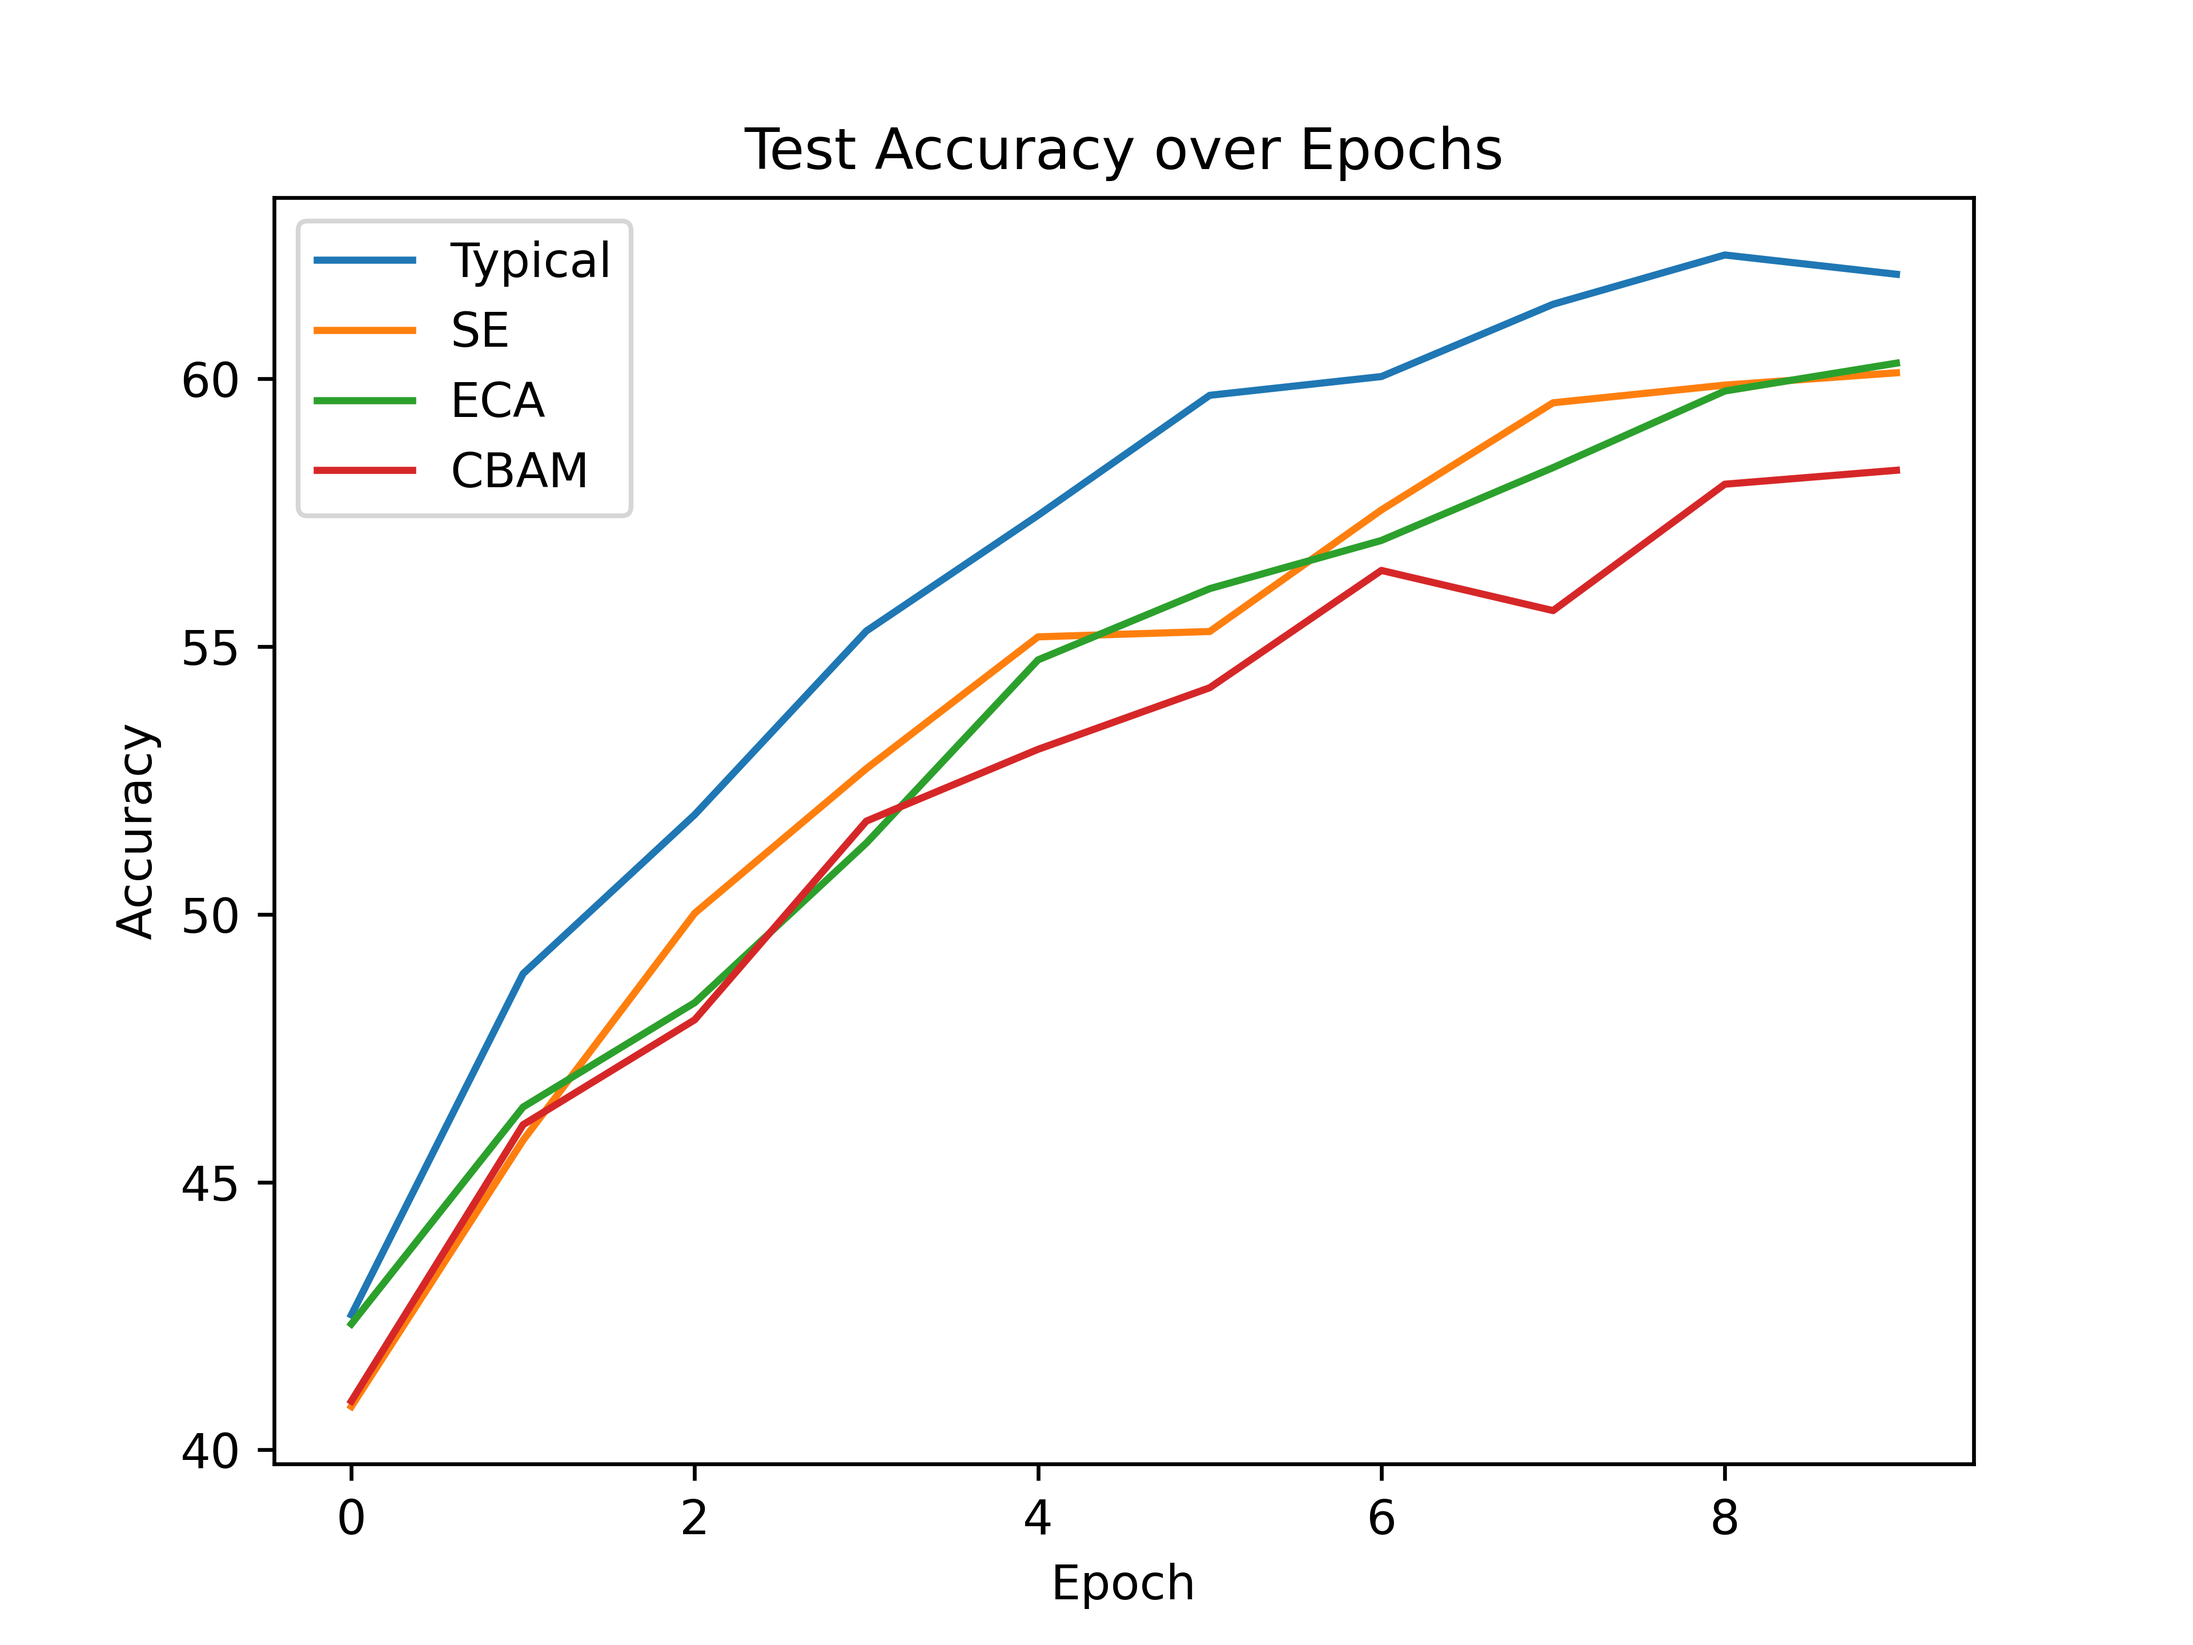
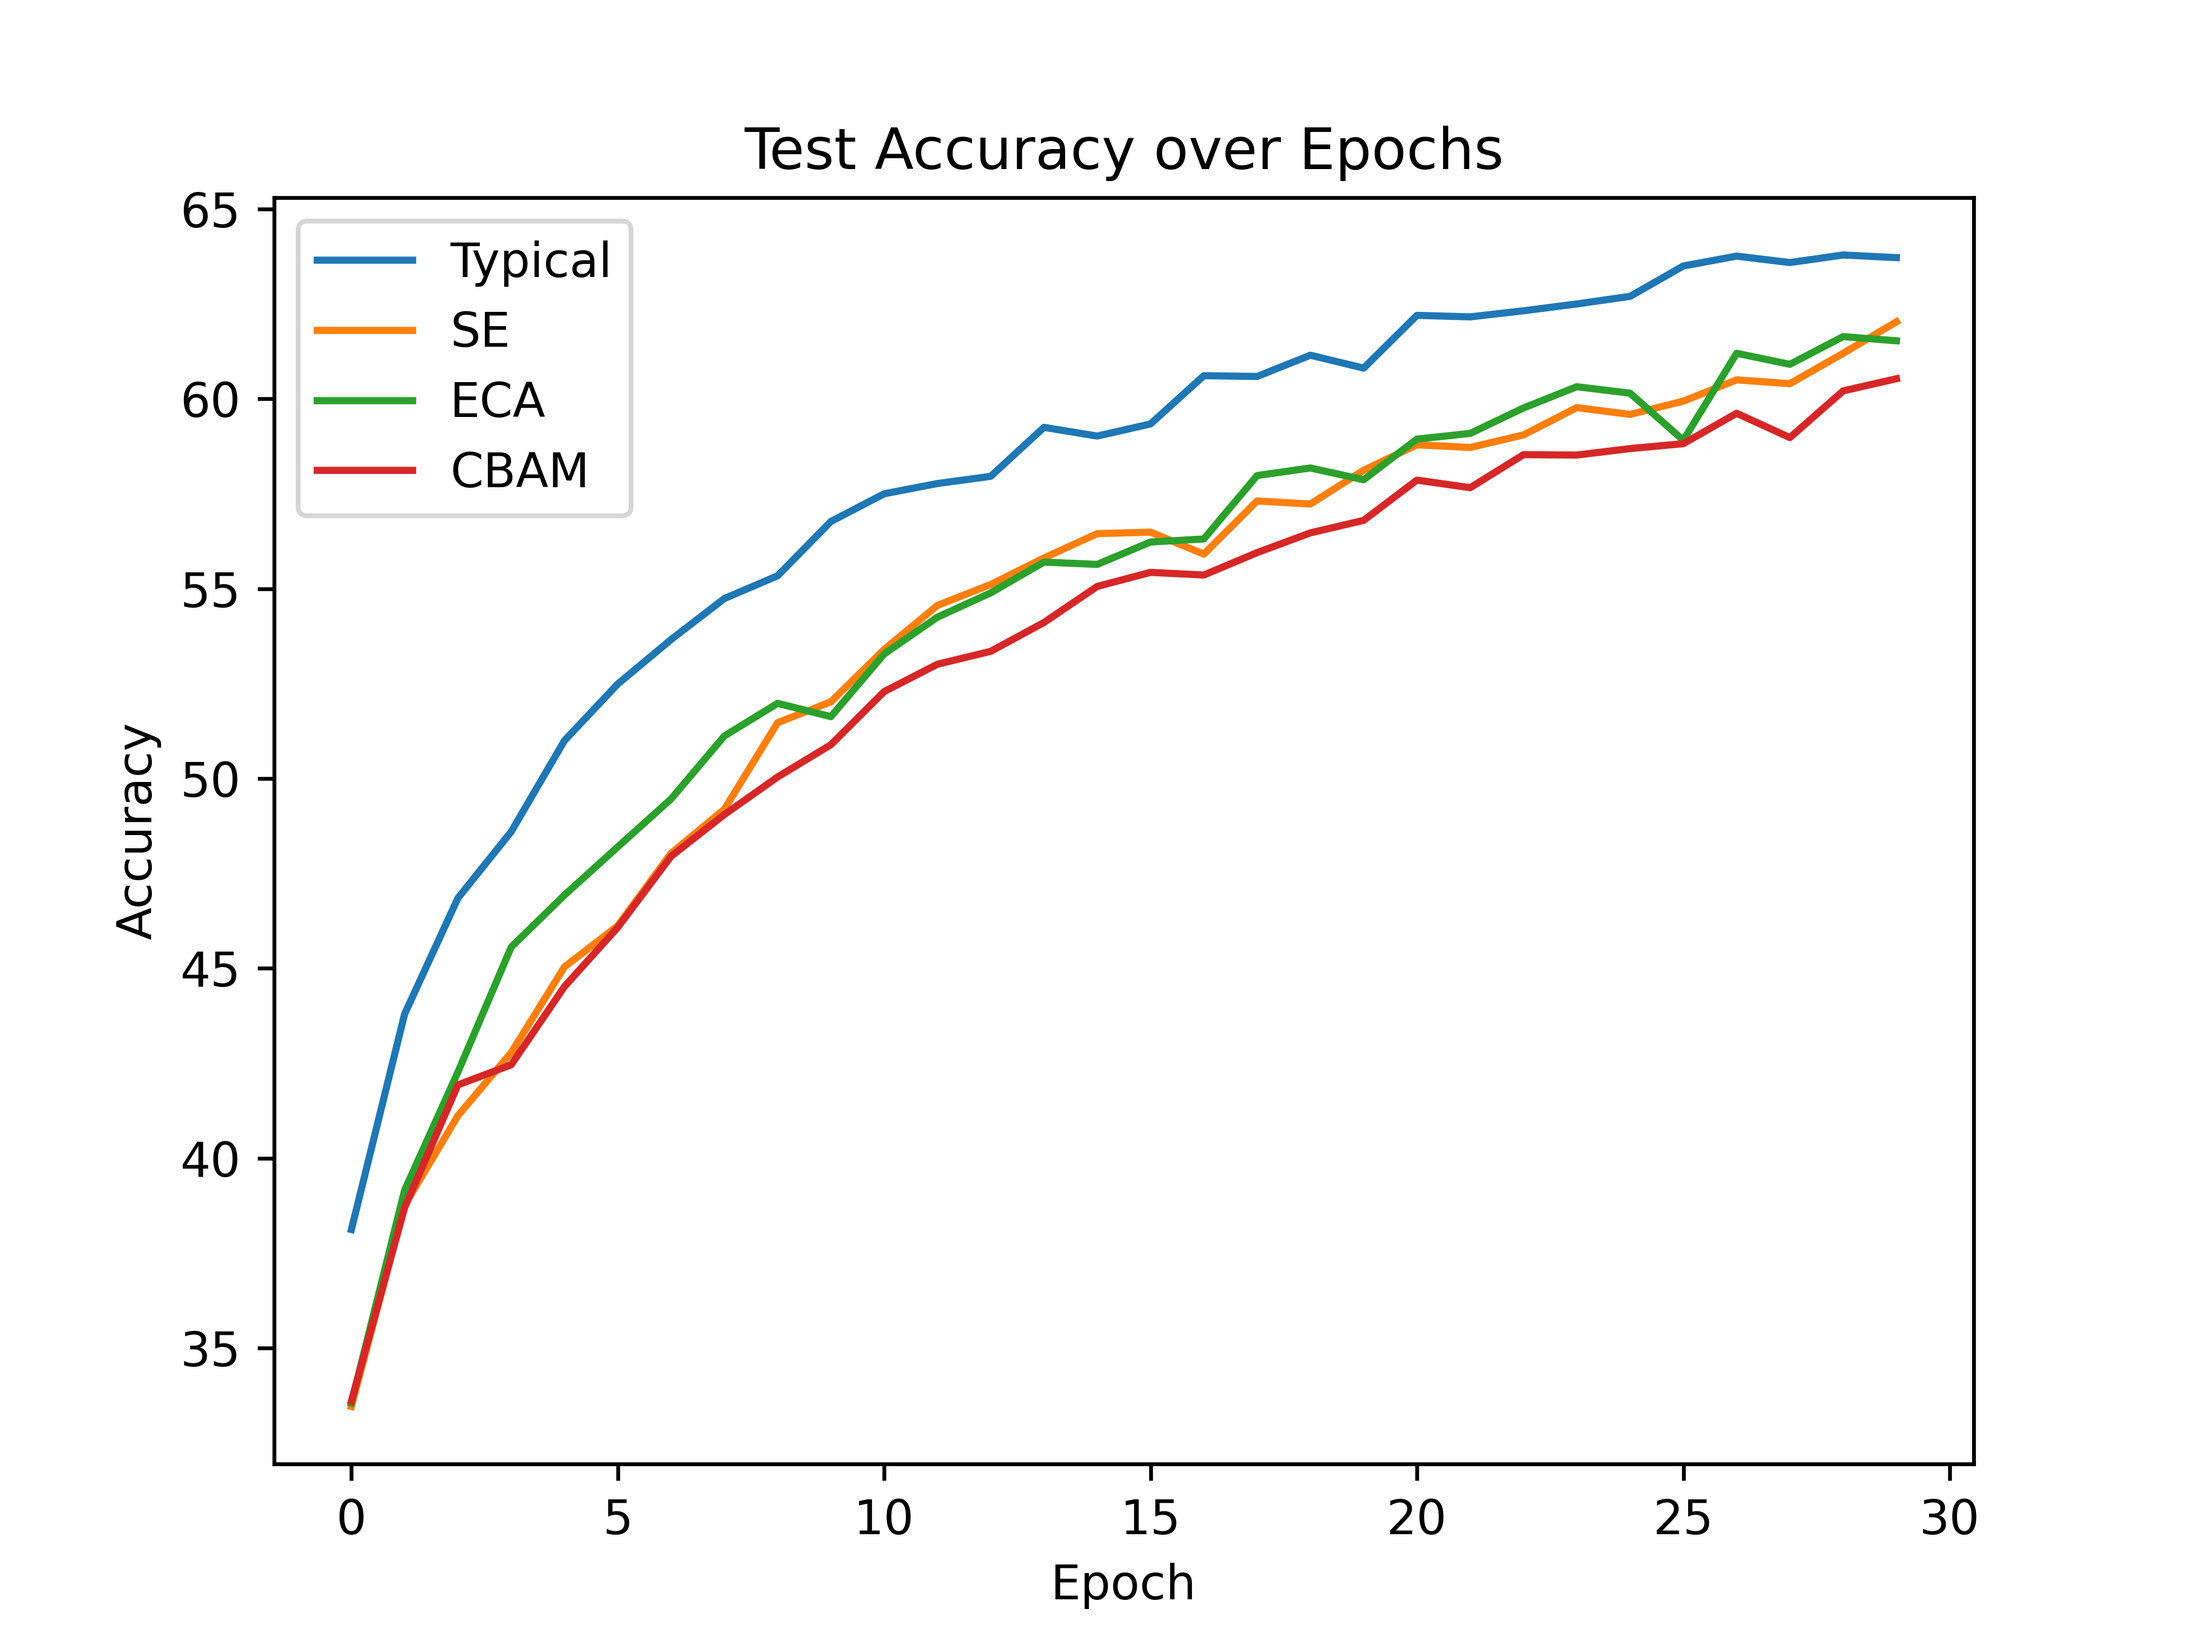
chhange to cuda

diff --git a/train.py b/train.py
@@ -4,14 +4,13 @@ import torch.nn.functional as F
 import torch.optim as optim
 from torchvision import datasets, transforms
 import ConvNet
-import ResNet
 
 args = {
-    'model': 'lenet5',        # lenet5, resnet18
-    'dataset': 'mnist',         # MNIST, CIFAR10
-    'batch_size': 64,           # 64, 128
-    'optimizer': 'adam',        # adam, sgd, adadelta
-    'activation': 'relu',       # relu, gelu, elu, tanh
+    'model': 'lenet5',          # lenet5
+    'dataset': 'cifar10',       # CIFAR10, CIFAR100
+    'batch_size': 512,          # 64, 128, 256, 512
+    'optimizer': 'adam',        # adam, sgd, adadelta, rmsprop
+    'activation': 'relu',       # relu, gelu, sigmoid, tanh
     'normalization': 'none',    # none, bn, ln, gn
     'attention': 'none',        # none, se, eca, cbam
     'dropout': False,           # True, False
@@ -20,52 +19,21 @@ args = {
     'kernel_num1': 6,           # 6, 12, 24
     'kernel_num2': 16           # 16, 32, 64
 }
-total_epoch = 5
+total_epoch = 30
 
 device = torch.device("cuda" if torch.cuda.is_available() else "cpu")
+print("Runing on", torch.cuda.get_device_name(0) if torch.cuda.is_available() else "CPU")
 
 loss_log = []
 acc_log = []
 
 # Data preprocessing
 def data_preprocessing():
-    if args['dataset'] == 'mnist':
-        if args['model'] == 'lenet5':
-            transform = transforms.Compose([
-                transforms.Resize(32),
-                transforms.ToTensor(),
-                transforms.Normalize((0.1307,), (0.3081,))
-            ])
-        elif args['model'] == 'resnet18':
-            transform = transforms.Compose([
-                transforms.Resize(224), 
-                transforms.Grayscale(num_output_channels=3),
-                transforms.ToTensor(),
-                transforms.Normalize(mean=[0.1307, 0.1307, 0.1307], std=[0.3081, 0.3081, 0.3081]), 
-            ])
-
-
-        train_loader = torch.utils.data.DataLoader(
-                datasets.MNIST('data', train=True, download=True, transform=transform),
-                batch_size=args['batch_size'], shuffle=True)
-
-
-        test_loader = torch.utils.data.DataLoader(
-                datasets.MNIST('data', train=False, transform=transform),
-                batch_size=args['batch_size'], shuffle=True)
-    elif args['dataset'] == 'cifar10':
+    if args['dataset'] == 'cifar10':
         if args['model'] == 'lenet5':   
             transform = transforms.Compose([
                 transforms.RandomHorizontalFlip(),
                 transforms.ToTensor(), 
-                transforms.Normalize(mean=[0.4914, 0.4822, 0.4465], std=[0.2023, 0.1994, 0.2010]),
-                transforms.Grayscale(num_output_channels=1),
-            ])
-        elif args['model'] == 'resnet18':
-            transform = transforms.Compose([
-                transforms.Resize(224),
-                transforms.RandomHorizontalFlip(),
-                transforms.ToTensor(),
                 transforms.Normalize(mean=[0.4914, 0.4822, 0.4465], std=[0.2023, 0.1994, 0.2010]),
             ])
 
@@ -76,6 +44,24 @@ def data_preprocessing():
 
         test_loader = torch.utils.data.DataLoader(
             datasets.CIFAR10('data', train=False, transform=transform),
+            batch_size=args['batch_size'], shuffle=True
+        )
+    
+    elif args['dataset'] == 'cifar100':
+        if args['model'] == 'lenet5':   
+            transform = transforms.Compose([
+                transforms.RandomHorizontalFlip(),
+                transforms.ToTensor(), 
+                transforms.Normalize(mean=[0.5071, 0.4867, 0.4408], std=[0.2675, 0.2565, 0.2761]),
+            ])
+
+        train_loader = torch.utils.data.DataLoader(
+            datasets.CIFAR100('data', train=True, download=True, transform=transform),
+            batch_size=args['batch_size'], shuffle=True
+        )
+
+        test_loader = torch.utils.data.DataLoader(
+            datasets.CIFAR100('data', train=False, transform=transform),
             batch_size=args['batch_size'], shuffle=True
         )
 
@@ -91,7 +77,7 @@ def train(model, train_loader, opt, epoch):
         loss.backward()
         opt.step()
         loss_log.append(loss.item())
-        if batch_idx % 100 == 0 and batch_idx != 0:
+        if batch_idx % 50 == 0:
             print(f'Train Epoch: {epoch} [{batch_idx * len(data)}/{len(train_loader.dataset)} '
                     f'({100. * batch_idx / len(train_loader):.0f}%)]\tLoss: {loss.item():.6f}')
 
@@ -120,22 +106,22 @@ def main():
         model = ConvNet.model(activation=args['activation'], normalization=args['normalization'], 
                               attention=args['attention'], dropout=args['dropout'], 
                               add_conv=args['add_conv'], kernel_size=args['kernel_size'], 
-                              kernel_num1=args['kernel_num1'], kernel_num2=args['kernel_num2'])
-    elif args['model'] == 'resnet18':
-        model = ResNet.model()
+                              kernel_num1=args['kernel_num1'], kernel_num2=args['kernel_num2']).to(device)
     
     if args['optimizer'] == 'adam':
         opt = optim.Adam(model.parameters())
     elif args['optimizer'] == 'sgd':
-        opt = optim.SGD(model.parameters(), lr=0.01, momentum=0.9)
+        opt = optim.SGD(model.parameters(), lr=0.01, momentum=0.9, weight_decay=5e-4)
     elif args['optimizer'] == 'adadelta':
         opt = optim.Adadelta(model.parameters())
+    elif args['optimizer'] == 'rmsprop':
+        opt = optim.RMSprop(model.parameters())
     
     train_loader, test_loader = data_preprocessing()
 
     for epoch in range(total_epoch):
         train(model, train_loader, opt, epoch+1)
         test(model, test_loader)
-
+    
 if __name__ == '__main__':
     main()

diff --git a/PA2/test_optimizer.py b/PA2/test_optimizer.py
@@ -5,7 +5,7 @@ import train
 import matplotlib.pyplot as plt
 
 args = train.args
-train.total_epoch = 10
+train.total_epoch = 30
 args['dataset'] = 'cifar10'
 
 # Adam 优化器
@@ -28,24 +28,32 @@ train.main()
 adadelta_loss, adadelta_conv = train.loss_log, train.acc_log
 train.loss_log, train.acc_log = [], []
 
+# RMSprop 优化器
+args['optimizer'] = 'rmsprop'
+train.args = args
+train.main()
+rmsprop_loss, rmsprop_conv = train.loss_log, train.acc_log
+
 # Plot loss_log
 plt.plot(adam_loss, "o", color='blue', alpha=0.5, label='Adam')
 plt.plot(sgd_loss, "o", color='red', alpha=0.5, label='SGD')
 plt.plot(adadelta_loss, "o", color='orange', alpha=0.5, label='Adadelta')
+plt.plot(rmsprop_loss, "o", color='green', alpha=0.5, label='RMSprop')
 plt.xlabel('Batches')
 plt.ylabel('Loss')
 plt.title('Training Loss over Batches')
 plt.legend()
-plt.savefig(f'loss_opt_{args["dataset"]}_{args["model"]}.png', dpi = 600)
+plt.savefig(f'./PA2/loss_opt_{args["dataset"]}_{args["model"]}.png', dpi = 600)
 plt.clf()
 
 # Plot acc_log
 plt.plot(adam_conv, label='Adam')
 plt.plot(sgd_conv, label='SGD')
 plt.plot(adadelta_conv, label='Adadelta')
+plt.plot(rmsprop_conv, label='RMSprop')
 plt.xlabel('Epoch')
 plt.ylabel('Accuracy')
 plt.title('Test Accuracy over Epochs')
 plt.legend()
-plt.savefig(f'acc_opt_{args["dataset"]}_{args["model"]}.png', dpi = 600)
+plt.savefig(f'./PA2/acc_opt_{args["dataset"]}_{args["model"]}.png', dpi = 600)
 plt.clf()

diff --git a/PA1/test_activate.py b/PA1/test_activate.py
@@ -5,8 +5,8 @@ import train
 import matplotlib.pyplot as plt
 
 args = train.args
-train.total_epoch = 10
-args['dataset'] = 'mnist'
+train.total_epoch = 30
+args['dataset'] = 'cifar10'
 
 # 经典 LeNet-5，使用 relu
 train.args = args
@@ -21,11 +21,11 @@ train.main()
 gelu_loss, gelu_acc = train.loss_log, train.acc_log
 train.loss_log, train.acc_log = [], []
 
-# 使用 elu
-args['activation'] = 'elu'
+# 使用 sigmoid
+args['activation'] = 'sigmoid'
 train.args = args
 train.main()
-elu_loss, elu_acc = train.loss_log, train.acc_log
+sigmoid_loss, sigmoid_acc = train.loss_log, train.acc_log
 train.loss_log, train.acc_log = [], []
 
 # 使用 tanh
@@ -37,7 +37,7 @@ tanh_loss, tanh_acc = train.loss_log, train.acc_log
 # Plot loss_log
 plt.plot(relu_loss, "o", color='blue', alpha=0.5, label='ReLU')
 plt.plot(gelu_loss, "o", color='red', alpha=0.5, label='GELU')
-plt.plot(elu_loss, "o", color='orange', alpha=0.5, label='ELU')
+plt.plot(sigmoid_loss, "o", color='orange', alpha=0.5, label='Sigmod')
 plt.plot(tanh_loss, "o", color='green', alpha=0.5, label='Tanh')
 plt.xlabel('Batches')
 plt.ylabel('Loss')
@@ -49,7 +49,7 @@ plt.clf()
 # Plot acc_log
 plt.plot(relu_conv, label='ReLU')
 plt.plot(gelu_acc, label='GELU')
-plt.plot(elu_acc, label='ELU')
+plt.plot(sigmoid_acc, label='Sigmod')
 plt.plot(tanh_acc, label='Tanh')
 plt.xlabel('Epoch')
 plt.ylabel('Accuracy')

diff --git a/PA3/test_attention.py b/PA3/test_attention.py
@@ -5,8 +5,8 @@ import train
 import matplotlib.pyplot as plt
 
 args = train.args
-train.total_epoch = 10
-args['dataset'] = 'mnist'
+train.total_epoch = 30
+args['dataset'] = 'cifar10'
 
 # 经典 Lenet-5，无注意力机制
 train.args = args
@@ -43,7 +43,7 @@ plt.xlabel('Batches')
 plt.ylabel('Loss')
 plt.title('Training Loss over Batches')
 plt.legend()
-plt.savefig(f'loss_att_{args["dataset"]}_{args["model"]}.png', dpi = 600)
+plt.savefig(f'./PA3/img/loss_att_{args["dataset"]}_{args["model"]}.png', dpi = 600)
 plt.clf()
 
 # Plot acc_log
@@ -55,5 +55,5 @@ plt.xlabel('Epoch')
 plt.ylabel('Accuracy')
 plt.title('Test Accuracy over Epochs')
 plt.legend()
-plt.savefig(f'acc_att_{args["dataset"]}_{args["model"]}.png', dpi = 600)
+plt.savefig(f'./PA3/img/acc_att_{args["dataset"]}_{args["model"]}.png', dpi = 600)
 plt.clf()

diff --git a/ConvNet.py b/ConvNet.py
@@ -81,7 +81,7 @@ class model(nn.Module):
         
         # layers
         # convolutional 1
-        self.conv1 = nn.Conv2d(1, kernel_num1, kernel_size) # 6x28x28
+        self.conv1 = nn.Conv2d(3, kernel_num1, kernel_size) # 6x28x28
 
         # normalization 1
         if self.normalization == 'bn':
@@ -162,8 +162,8 @@ class model(nn.Module):
             return F.relu(input)
         elif self.activation == 'gelu':
             return F.gelu(input)
-        elif self.activation == 'elu':
-            return F.elu(input)
+        elif self.activation == 'sigmoid':
+            return F.sigmoid(input)
         elif self.activation == 'tanh':
             return F.tanh(input)
         else:
